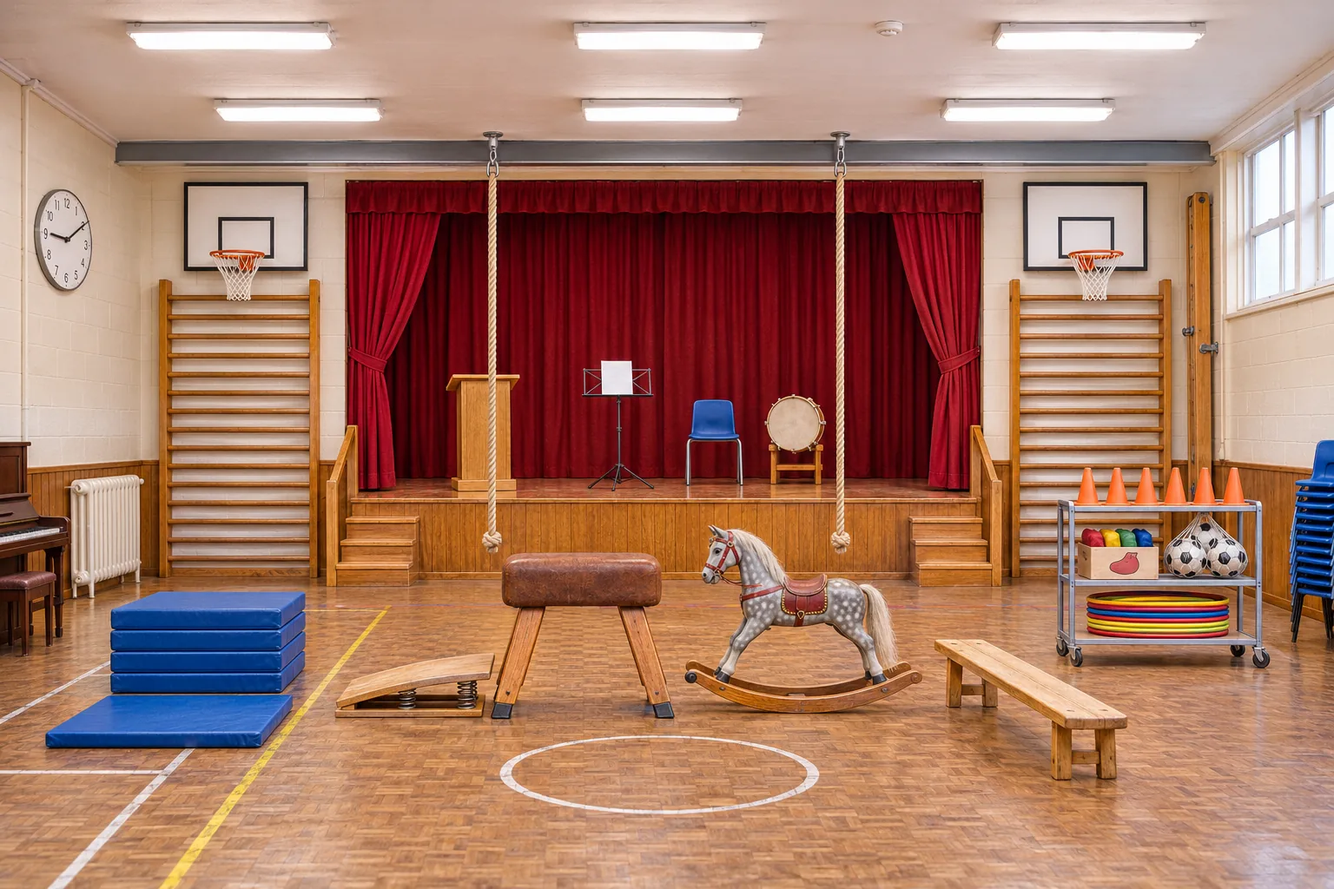
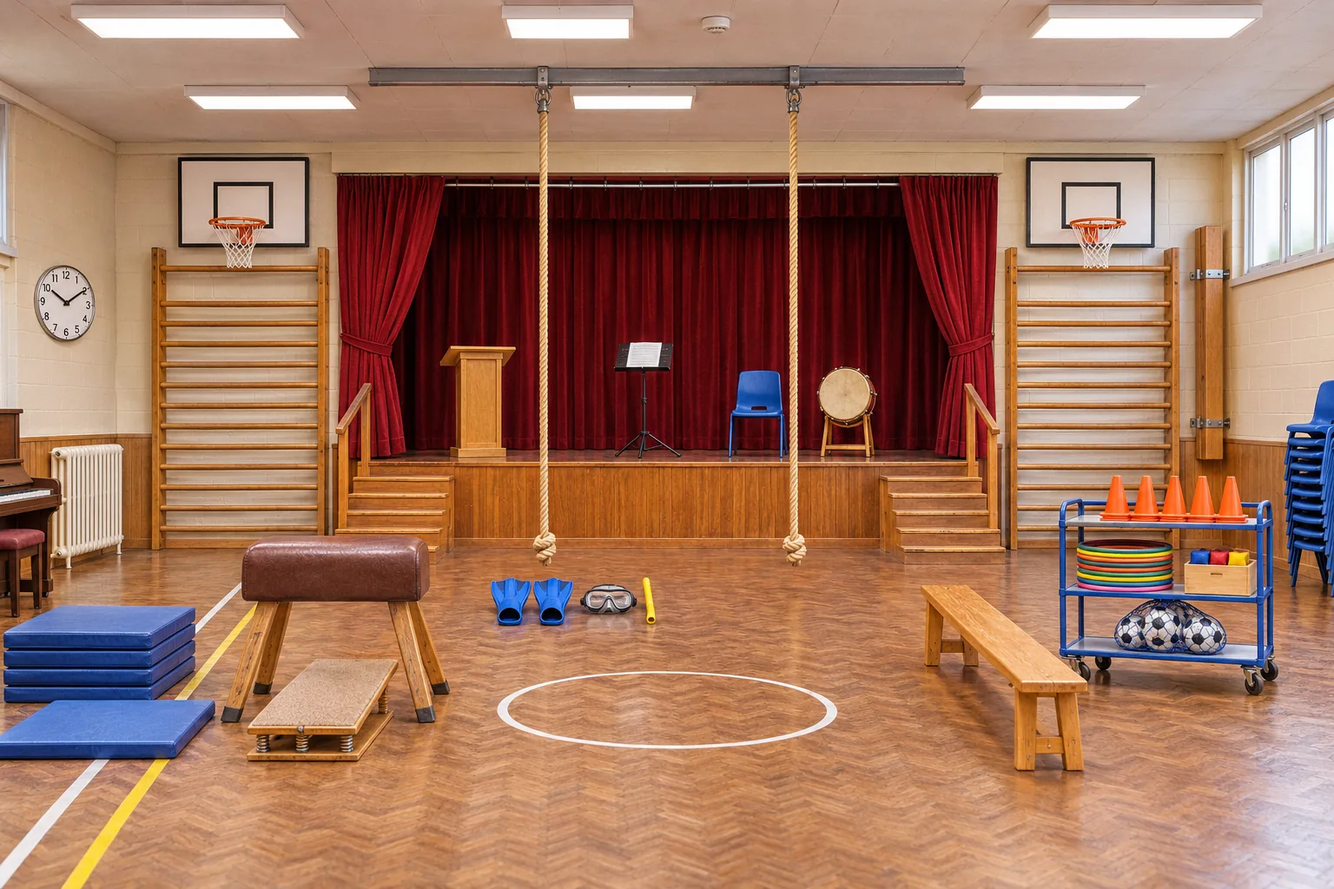
Rework four school views: veggies poster, flippers, shapes chart, closer playground

diff --git a/school.html b/school.html
@@ -457,7 +457,7 @@ body.presenting{overflow:hidden}
 <script src="https://cdn.jsdelivr.net/npm/motion@14.9.0/dist/motion.js" integrity="sha384-mzhnnVPTOvuHjQX0cuFH5wg2l5YcbPcpPqOoHFowMkg6VYQBWwZKGH+EAVZsi6zJ" crossorigin="anonymous"></script>
 <script>
 /* One room or the whole flat: ROOMS is the only difference between them. */
-var ROOMS=[{"title": "The classroom", "alt": "The whiteboard wall of a primary school classroom", "key": "school_vocab_the_classroom_v1", "img": "images/school/the-classroom.webp", "at": [0.149, 0.353], "words": [{"x": 11.7, "y": 36.5, "w": "coat peg"}, {"x": 3.5, "y": 44.0, "w": "coat"}, {"x": 8.6, "y": 44.0, "w": "raincoat"}, {"x": 14.2, "y": 43.5, "w": "book bag"}, {"x": 17.4, "y": 44.5, "w": "PE bag"}, {"x": 4.5, "y": 57.5, "w": "bench"}, {"x": 11.5, "y": 60.5, "w": "wellington boots"}, {"x": 21.3, "y": 50.0, "w": "bookcase"}, {"x": 27.0, "y": 43.0, "w": "books"}, {"x": 30.5, "y": 57.5, "w": "ring binder"}, {"x": 25.5, "y": 59.8, "w": "basket"}, {"x": 22.8, "y": 33.5, "w": "globe"}, {"x": 26.8, "y": 37.5, "w": "tambourine"}, {"x": 32.8, "y": 32.5, "w": "plant"}, {"x": 20.0, "y": 25.3, "w": "number line"}, {"x": 40.8, "y": 19.0, "w": "clock"}, {"x": 47.0, "y": 35.0, "w": "whiteboard"}, {"x": 49.3, "y": 21.0, "w": "projector"}, {"x": 63.0, "y": 35.0, "w": "hundred square"}, {"x": 71.5, "y": 25.3, "w": "painting"}, {"x": 68.8, "y": 33.0, "w": "display board"}, {"x": 89.3, "y": 33.5, "w": "paper towel dispenser"}, {"x": 87.8, "y": 49.5, "w": "sink"}, {"x": 86.8, "y": 44.0, "w": "tap"}, {"x": 79.2, "y": 46.5, "w": "paint pot"}, {"x": 95.0, "y": 47.0, "w": "drying rack"}, {"x": 83.5, "y": 58.5, "w": "bin"}, {"x": 87.8, "y": 60.5, "w": "recycling box"}, {"x": 84.6, "y": 52.8, "w": "cupboard"}, {"x": 60.0, "y": 56.5, "w": "desk"}, {"x": 65.5, "y": 47.0, "w": "swivel chair"}, {"x": 60.0, "y": 51.3, "w": "laptop"}, {"x": 64.0, "y": 52.5, "w": "mug"}, {"x": 23.3, "y": 73.5, "w": "exercise book"}, {"x": 68.8, "y": 50.3, "w": "bell"}, {"x": 83.6, "y": 73.6, "w": "ruler"}, {"x": 76.5, "y": 50.0, "w": "crown"}, {"x": 79.3, "y": 52.5, "w": "sceptre"}, {"x": 56.3, "y": 51.5, "w": "tissues"}, {"x": 37.0, "y": 51.5, "w": "sand timer"}, {"x": 40.0, "y": 50.5, "w": "abacus"}, {"x": 44.5, "y": 51.6, "w": "cube"}, {"x": 46.6, "y": 51.2, "w": "sphere"}, {"x": 48.6, "y": 51.3, "w": "cone"}, {"x": 50.2, "y": 51.3, "w": "cylinder"}, {"x": 43.5, "y": 59.2, "w": "felt tip pens"}, {"x": 48.5, "y": 59.5, "w": "counting cubes"}, {"x": 55.5, "y": 59.8, "w": "number rods"}, {"x": 8.0, "y": 76.5, "w": "table"}, {"x": 15.0, "y": 86.0, "w": "chair"}, {"x": 12.8, "y": 72.3, "w": "pencil case"}, {"x": 27.3, "y": 74.3, "w": "pencil"}, {"x": 31.8, "y": 71.0, "w": "coloured pencils"}, {"x": 31.8, "y": 74.8, "w": "pencil pot"}, {"x": 35.8, "y": 73.5, "w": "glue stick"}, {"x": 39.5, "y": 73.5, "w": "scissors"}, {"x": 61.0, "y": 73.2, "w": "counters"}, {"x": 68.5, "y": 73.5, "w": "reading book"}, {"x": 74.0, "y": 73.5, "w": "lunch box"}, {"x": 79.5, "y": 71.5, "w": "water bottle"}, {"x": 87.0, "y": 74.0, "w": "rubber"}, {"x": 89.4, "y": 74.6, "w": "pencil sharpener"}, {"x": 23.0, "y": 9.3, "w": "strip light"}, {"x": 66.3, "y": 3.5, "w": "smoke alarm"}, {"x": 78.0, "y": 59.5, "w": "socket"}]}, {"title": "The staff room", "alt": "The kitchen wall of a primary school staff room", "key": "school_vocab_the_staff_room_v1", "img": "images/school/the-staff-room.webp", "at": [0.348, 0.353], "words": [{"x": 1.3, "y": 27.5, "w": "coat stand"}, {"x": 2.2, "y": 46.0, "w": "cardigan"}, {"x": 2.3, "y": 63.0, "w": "umbrella"}, {"x": 4.3, "y": 36.0, "w": "light switch"}, {"x": 11.5, "y": 52.0, "w": "photocopier"}, {"x": 21.4, "y": 21.5, "w": "noticeboard"}, {"x": 24.0, "y": 44.3, "w": "pigeonholes"}, {"x": 23.5, "y": 36.5, "w": "letter tray"}, {"x": 29.8, "y": 36.5, "w": "stapler"}, {"x": 33.0, "y": 36.5, "w": "hole punch"}, {"x": 37.0, "y": 34.5, "w": "cactus"}, {"x": 27.4, "y": 41.7, "w": "envelope"}, {"x": 32.8, "y": 42.0, "w": "notebook"}, {"x": 27.0, "y": 45.8, "w": "folder"}, {"x": 27.0, "y": 50.3, "w": "stickers"}, {"x": 30.0, "y": 63.5, "w": "cupboard"}, {"x": 52.5, "y": 25.0, "w": "plates"}, {"x": 51.0, "y": 33.5, "w": "glasses"}, {"x": 73.5, "y": 31.0, "w": "first aid box"}, {"x": 56.5, "y": 41.0, "w": "socket"}, {"x": 45.2, "y": 47.5, "w": "tap"}, {"x": 43.3, "y": 52.0, "w": "sink"}, {"x": 50.5, "y": 52.8, "w": "draining board"}, {"x": 52.8, "y": 47.0, "w": "washing-up brush"}, {"x": 56.5, "y": 48.5, "w": "kettle"}, {"x": 59.5, "y": 49.5, "w": "toaster"}, {"x": 63.5, "y": 47.0, "w": "mug tree"}, {"x": 67.5, "y": 49.5, "w": "coffee"}, {"x": 70.0, "y": 50.0, "w": "teabags"}, {"x": 72.5, "y": 50.8, "w": "sugar bowl"}, {"x": 74.8, "y": 50.8, "w": "milk jug"}, {"x": 78.5, "y": 51.0, "w": "biscuit tin"}, {"x": 85.0, "y": 47.0, "w": "fridge"}, {"x": 85.2, "y": 57.0, "w": "tea towel"}, {"x": 89.0, "y": 29.0, "w": "kitchen roll"}, {"x": 94.5, "y": 45.0, "w": "staff"}, {"x": 97.5, "y": 60.0, "w": "radiator"}, {"x": 26.0, "y": 82.0, "w": "armchair"}, {"x": 55.0, "y": 89.0, "w": "coffee table"}, {"x": 40.5, "y": 82.5, "w": "exercise books"}, {"x": 40.3, "y": 75.5, "w": "red pen"}, {"x": 60.5, "y": 81.0, "w": "laptop"}, {"x": 47.5, "y": 80.5, "w": "mug"}, {"x": 52.3, "y": 82.3, "w": "biscuits"}, {"x": 68.0, "y": 78.5, "w": "tissues"}, {"x": 14.5, "y": 84.0, "w": "bin"}, {"x": 6.5, "y": 88.0, "w": "recycling box"}, {"x": 23.0, "y": 4.0, "w": "ceiling light"}, {"x": 50.0, "y": 3.5, "w": "smoke alarm"}]}, {"title": "The canteen", "alt": "The serving counter of a primary school canteen", "key": "school_vocab_the_canteen_v1", "img": "images/school/the-canteen.webp", "at": [0.555, 0.353], "words": [{"x": 2.5, "y": 25.0, "w": "window"}, {"x": 4.0, "y": 45.0, "w": "radiator"}, {"x": 8.3, "y": 33.0, "w": "hand sanitiser"}, {"x": 13.8, "y": 25.0, "w": "serving hatch"}, {"x": 19.0, "y": 26.0, "w": "pans"}, {"x": 50.0, "y": 13.0, "w": "menu board"}, {"x": 62.3, "y": 31.0, "w": "milk"}, {"x": 15.5, "y": 46.0, "w": "cutlery"}, {"x": 21.0, "y": 46.0, "w": "yoghurt"}, {"x": 23.5, "y": 46.5, "w": "fruit salad"}, {"x": 26.0, "y": 46.5, "w": "jelly"}, {"x": 29.5, "y": 46.5, "w": "rice pudding"}, {"x": 33.0, "y": 46.0, "w": "fish fingers"}, {"x": 35.5, "y": 46.5, "w": "roast potatoes"}, {"x": 38.5, "y": 46.0, "w": "peas"}, {"x": 37.5, "y": 48.5, "w": "serving spoon"}, {"x": 43.0, "y": 47.3, "w": "rowing boat"}, {"x": 52.0, "y": 46.5, "w": "carrots"}, {"x": 55.0, "y": 46.5, "w": "pasta"}, {"x": 58.6, "y": 41.5, "w": "urn"}, {"x": 62.5, "y": 46.5, "w": "bread rolls"}, {"x": 66.5, "y": 46.0, "w": "loaf"}, {"x": 67.5, "y": 48.5, "w": "bread knife"}, {"x": 70.0, "y": 47.0, "w": "grated cheese"}, {"x": 73.5, "y": 45.5, "w": "apples"}, {"x": 76.5, "y": 45.5, "w": "oranges"}, {"x": 79.5, "y": 46.0, "w": "plates"}, {"x": 81.7, "y": 46.5, "w": "bowls"}, {"x": 85.5, "y": 43.0, "w": "till"}, {"x": 89.0, "y": 45.5, "w": "card reader"}, {"x": 93.5, "y": 43.0, "w": "water cooler"}, {"x": 72.0, "y": 57.0, "w": "bin"}, {"x": 83.0, "y": 57.0, "w": "recycling bin"}, {"x": 65.0, "y": 55.0, "w": "socket"}, {"x": 40.0, "y": 55.0, "w": "counter"}, {"x": 31.0, "y": 79.0, "w": "table"}, {"x": 20.0, "y": 90.0, "w": "bench"}, {"x": 3.6, "y": 77.5, "w": "tray"}, {"x": 18.3, "y": 68.0, "w": "jug"}, {"x": 25.0, "y": 73.5, "w": "beaker"}, {"x": 12.9, "y": 74.6, "w": "fork"}, {"x": 9.6, "y": 74.5, "w": "bowl"}, {"x": 14.3, "y": 74.6, "w": "spoon"}, {"x": 73.5, "y": 76.5, "w": "lunch box"}, {"x": 72.5, "y": 74.5, "w": "sandwich"}, {"x": 78.5, "y": 74.5, "w": "juice"}, {"x": 89.0, "y": 77.0, "w": "banana"}, {"x": 93.5, "y": 72.0, "w": "flask"}, {"x": 85.0, "y": 25.0, "w": "door"}, {"x": 11.0, "y": 4.0, "w": "ceiling light"}, {"x": 50.0, "y": 3.0, "w": "smoke alarm"}]}, {"title": "The hall", "alt": "The stage end of a primary school hall, with wall bars and climbing ropes", "key": "school_vocab_the_hall_v1", "img": "images/school/the-hall.webp", "at": [0.822, 0.353], "words": [{"x": 4.5, "y": 26.0, "w": "clock"}, {"x": 1.5, "y": 61.0, "w": "piano"}, {"x": 2.5, "y": 70.0, "w": "stool"}, {"x": 7.5, "y": 60.0, "w": "radiator"}, {"x": 17.0, "y": 42.0, "w": "wall bars"}, {"x": 18.0, "y": 29.0, "w": "basketball hoop"}, {"x": 20.5, "y": 23.5, "w": "backboard"}, {"x": 29.0, "y": 30.0, "w": "curtain"}, {"x": 50.0, "y": 57.5, "w": "stage"}, {"x": 28.0, "y": 61.5, "w": "steps"}, {"x": 26.2, "y": 54.5, "w": "handrail"}, {"x": 36.0, "y": 47.0, "w": "lectern"}, {"x": 46.3, "y": 44.0, "w": "music stand"}, {"x": 53.5, "y": 48.5, "w": "chair"}, {"x": 59.5, "y": 48.0, "w": "drum"}, {"x": 36.5, "y": 40.0, "w": "climbing rope"}, {"x": 43.0, "y": 65.0, "w": "vaulting horse"}, {"x": 31.0, "y": 77.5, "w": "springboard"}, {"x": 12.0, "y": 82.5, "w": "gym mat"}, {"x": 58.0, "y": 68.0, "w": "rocking horse"}, {"x": 77.0, "y": 76.0, "w": "bench"}, {"x": 93.5, "y": 68.0, "w": "trolley"}, {"x": 85.0, "y": 55.5, "w": "cones"}, {"x": 83.0, "y": 61.0, "w": "beanbags"}, {"x": 90.0, "y": 62.0, "w": "footballs"}, {"x": 88.0, "y": 70.0, "w": "hoops"}, {"x": 96.0, "y": 20.0, "w": "window"}, {"x": 25.0, "y": 4.0, "w": "ceiling light"}, {"x": 66.5, "y": 3.0, "w": "smoke alarm"}]}, {"title": "The playground", "alt": "The tarmac playground of a primary school, looking at the railings", "key": "school_vocab_the_playground_v1", "img": "images/school/the-playground.webp", "at": [0.5, 0.773], "words": [{"x": 1.5, "y": 24.0, "w": "brick wall"}, {"x": 2.0, "y": 32.5, "w": "drinking fountain"}, {"x": 6.5, "y": 30.0, "w": "climbing frame"}, {"x": 7.3, "y": 36.0, "w": "ladder"}, {"x": 14.5, "y": 36.5, "w": "slide"}, {"x": 15.5, "y": 23.5, "w": "monkey bars"}, {"x": 15.5, "y": 29.5, "w": "bananas"}, {"x": 25.5, "y": 36.5, "w": "bench"}, {"x": 29.5, "y": 36.0, "w": "litter bin"}, {"x": 32.0, "y": 36.0, "w": "recycling bin"}, {"x": 57.0, "y": 33.0, "w": "railings"}, {"x": 60.0, "y": 22.0, "w": "hedge"}, {"x": 41.5, "y": 29.5, "w": "footballs"}, {"x": 46.0, "y": 30.0, "w": "skipping ropes"}, {"x": 41.5, "y": 35.0, "w": "hoops"}, {"x": 46.5, "y": 38.0, "w": "tennis balls"}, {"x": 48.6, "y": 33.5, "w": "trolley"}, {"x": 50.0, "y": 15.0, "w": "basketball hoop"}, {"x": 50.0, "y": 10.5, "w": "backboard"}, {"x": 50.2, "y": 25.0, "w": "post"}, {"x": 56.0, "y": 38.0, "w": "sandpit"}, {"x": 60.5, "y": 36.0, "w": "broom"}, {"x": 68.5, "y": 33.0, "w": "goal"}, {"x": 77.0, "y": 36.5, "w": "bike rack"}, {"x": 82.5, "y": 36.0, "w": "bicycle"}, {"x": 90.0, "y": 35.5, "w": "scooter"}, {"x": 96.5, "y": 38.0, "w": "planter"}, {"x": 96.5, "y": 30.0, "w": "sunflowers"}, {"x": 19.1, "y": 71.2, "w": "hopscotch"}, {"x": 82.0, "y": 67.5, "w": "number snake"}]}];
+var ROOMS=[{"title": "The classroom", "alt": "The whiteboard wall of a primary school classroom", "key": "school_vocab_the_classroom_v1", "img": "images/school/the-classroom.webp", "at": [0.149, 0.353], "words": [{"x": 11.0, "y": 32.3, "w": "coat peg"}, {"x": 3.6, "y": 40.0, "w": "coat"}, {"x": 8.5, "y": 40.0, "w": "raincoat"}, {"x": 14.3, "y": 40.0, "w": "book bag"}, {"x": 17.6, "y": 41.0, "w": "PE bag"}, {"x": 4.0, "y": 52.5, "w": "bench"}, {"x": 11.8, "y": 57.5, "w": "wellington boots"}, {"x": 20.6, "y": 47.0, "w": "bookcase"}, {"x": 26.5, "y": 39.0, "w": "books"}, {"x": 29.5, "y": 54.0, "w": "ring binder"}, {"x": 23.5, "y": 56.0, "w": "basket"}, {"x": 22.3, "y": 29.5, "w": "globe"}, {"x": 25.5, "y": 33.5, "w": "tambourine"}, {"x": 31.0, "y": 29.5, "w": "plant"}, {"x": 26.0, "y": 23.0, "w": "number line"}, {"x": 45.0, "y": 14.5, "w": "clock"}, {"x": 45.0, "y": 22.5, "w": "projector"}, {"x": 45.5, "y": 33.0, "w": "whiteboard"}, {"x": 57.8, "y": 30.3, "w": "circle"}, {"x": 60.3, "y": 30.0, "w": "square"}, {"x": 63.0, "y": 30.3, "w": "triangle"}, {"x": 58.0, "y": 35.0, "w": "rectangle"}, {"x": 60.5, "y": 35.0, "w": "star"}, {"x": 63.3, "y": 35.5, "w": "hexagon"}, {"x": 69.0, "y": 22.0, "w": "painting"}, {"x": 67.4, "y": 30.0, "w": "display board"}, {"x": 89.3, "y": 29.5, "w": "paper towel dispenser"}, {"x": 94.5, "y": 37.0, "w": "tap"}, {"x": 96.5, "y": 41.5, "w": "sink"}, {"x": 89.5, "y": 45.5, "w": "cupboard"}, {"x": 86.5, "y": 38.5, "w": "paint pot"}, {"x": 92.0, "y": 41.0, "w": "jam jar"}, {"x": 94.5, "y": 53.0, "w": "drying rack"}, {"x": 82.0, "y": 54.5, "w": "bin"}, {"x": 86.5, "y": 56.5, "w": "recycling box"}, {"x": 72.0, "y": 53.0, "w": "desk"}, {"x": 66.5, "y": 44.0, "w": "swivel chair"}, {"x": 59.5, "y": 46.5, "w": "laptop"}, {"x": 62.3, "y": 48.2, "w": "mug"}, {"x": 69.3, "y": 47.5, "w": "bell"}, {"x": 72.8, "y": 46.5, "w": "crown"}, {"x": 76.5, "y": 48.5, "w": "sceptre"}, {"x": 53.5, "y": 48.0, "w": "tissues"}, {"x": 36.0, "y": 48.0, "w": "sand timer"}, {"x": 39.5, "y": 47.5, "w": "abacus"}, {"x": 43.5, "y": 48.3, "w": "sphere"}, {"x": 46.4, "y": 48.0, "w": "cone"}, {"x": 42.5, "y": 55.5, "w": "felt tip pens"}, {"x": 47.5, "y": 55.5, "w": "counting cubes"}, {"x": 53.5, "y": 56.0, "w": "number rods"}, {"x": 8.0, "y": 72.0, "w": "table"}, {"x": 14.0, "y": 82.0, "w": "chair"}, {"x": 9.5, "y": 69.5, "w": "pencil case"}, {"x": 24.0, "y": 69.5, "w": "exercise book"}, {"x": 26.0, "y": 70.5, "w": "pencil"}, {"x": 29.5, "y": 66.5, "w": "coloured pencils"}, {"x": 29.5, "y": 70.0, "w": "pencil pot"}, {"x": 33.5, "y": 69.5, "w": "glue stick"}, {"x": 37.0, "y": 70.0, "w": "scissors"}, {"x": 62.0, "y": 69.5, "w": "counters"}, {"x": 68.5, "y": 70.5, "w": "reading book"}, {"x": 75.0, "y": 70.0, "w": "lunch box"}, {"x": 81.0, "y": 67.5, "w": "water bottle"}, {"x": 84.0, "y": 70.5, "w": "ruler"}, {"x": 89.5, "y": 70.0, "w": "rubber"}, {"x": 92.5, "y": 70.5, "w": "pencil sharpener"}, {"x": 20.0, "y": 4.5, "w": "strip light"}, {"x": 49.0, "y": 1.5, "w": "smoke alarm"}]}, {"title": "The staff room", "alt": "The kitchen wall of a primary school staff room", "key": "school_vocab_the_staff_room_v1", "img": "images/school/the-staff-room.webp", "at": [0.348, 0.353], "words": [{"x": 1.3, "y": 27.5, "w": "coat stand"}, {"x": 2.2, "y": 46.0, "w": "cardigan"}, {"x": 2.3, "y": 63.0, "w": "umbrella"}, {"x": 4.3, "y": 36.0, "w": "light switch"}, {"x": 11.5, "y": 52.0, "w": "photocopier"}, {"x": 21.4, "y": 21.5, "w": "noticeboard"}, {"x": 24.0, "y": 44.3, "w": "pigeonholes"}, {"x": 23.5, "y": 36.5, "w": "letter tray"}, {"x": 29.8, "y": 36.5, "w": "stapler"}, {"x": 33.0, "y": 36.5, "w": "hole punch"}, {"x": 37.0, "y": 34.5, "w": "cactus"}, {"x": 27.4, "y": 41.7, "w": "envelope"}, {"x": 32.8, "y": 42.0, "w": "notebook"}, {"x": 27.0, "y": 45.8, "w": "folder"}, {"x": 27.0, "y": 50.3, "w": "stickers"}, {"x": 30.0, "y": 63.5, "w": "cupboard"}, {"x": 52.5, "y": 25.0, "w": "plates"}, {"x": 51.0, "y": 33.5, "w": "glasses"}, {"x": 73.5, "y": 31.0, "w": "first aid box"}, {"x": 56.5, "y": 41.0, "w": "socket"}, {"x": 45.2, "y": 47.5, "w": "tap"}, {"x": 43.3, "y": 52.0, "w": "sink"}, {"x": 50.5, "y": 52.8, "w": "draining board"}, {"x": 52.8, "y": 47.0, "w": "washing-up brush"}, {"x": 56.5, "y": 48.5, "w": "kettle"}, {"x": 59.5, "y": 49.5, "w": "toaster"}, {"x": 63.5, "y": 47.0, "w": "mug tree"}, {"x": 67.5, "y": 49.5, "w": "coffee"}, {"x": 70.0, "y": 50.0, "w": "teabags"}, {"x": 72.5, "y": 50.8, "w": "sugar bowl"}, {"x": 74.8, "y": 50.8, "w": "milk jug"}, {"x": 78.5, "y": 51.0, "w": "biscuit tin"}, {"x": 85.0, "y": 47.0, "w": "fridge"}, {"x": 85.2, "y": 57.0, "w": "tea towel"}, {"x": 89.0, "y": 29.0, "w": "kitchen roll"}, {"x": 94.5, "y": 45.0, "w": "staff"}, {"x": 97.5, "y": 60.0, "w": "radiator"}, {"x": 26.0, "y": 82.0, "w": "armchair"}, {"x": 55.0, "y": 89.0, "w": "coffee table"}, {"x": 40.5, "y": 82.5, "w": "exercise books"}, {"x": 40.3, "y": 75.5, "w": "red pen"}, {"x": 60.5, "y": 81.0, "w": "laptop"}, {"x": 47.5, "y": 80.5, "w": "mug"}, {"x": 52.3, "y": 82.3, "w": "biscuits"}, {"x": 68.0, "y": 78.5, "w": "tissues"}, {"x": 14.5, "y": 84.0, "w": "bin"}, {"x": 6.5, "y": 88.0, "w": "recycling box"}, {"x": 23.0, "y": 4.0, "w": "ceiling light"}, {"x": 50.0, "y": 3.5, "w": "smoke alarm"}]}, {"title": "The canteen", "alt": "The serving counter of a primary school canteen", "key": "school_vocab_the_canteen_v1", "img": "images/school/the-canteen.webp", "at": [0.555, 0.353], "words": [{"x": 2.5, "y": 25.0, "w": "window"}, {"x": 5.0, "y": 57.0, "w": "radiator"}, {"x": 10.0, "y": 43.0, "w": "hand sanitiser"}, {"x": 13.5, "y": 30.0, "w": "serving hatch"}, {"x": 19.0, "y": 42.5, "w": "pans"}, {"x": 21.5, "y": 17.5, "w": "poster"}, {"x": 24.0, "y": 30.3, "w": "broccoli"}, {"x": 30.0, "y": 30.3, "w": "tomato"}, {"x": 33.2, "y": 30.3, "w": "pepper"}, {"x": 61.0, "y": 31.5, "w": "menu board"}, {"x": 64.0, "y": 37.5, "w": "milk"}, {"x": 17.5, "y": 52.0, "w": "cutlery"}, {"x": 23.0, "y": 54.0, "w": "yoghurt"}, {"x": 26.5, "y": 54.0, "w": "fruit salad"}, {"x": 29.0, "y": 54.0, "w": "jelly"}, {"x": 31.0, "y": 54.5, "w": "rice pudding"}, {"x": 37.0, "y": 53.5, "w": "fish fingers"}, {"x": 40.5, "y": 53.5, "w": "roast potatoes"}, {"x": 43.5, "y": 53.5, "w": "peas"}, {"x": 47.5, "y": 53.5, "w": "carrots"}, {"x": 51.5, "y": 53.5, "w": "pasta"}, {"x": 39.0, "y": 56.0, "w": "serving spoon"}, {"x": 55.5, "y": 54.0, "w": "gravy"}, {"x": 60.0, "y": 49.0, "w": "urn"}, {"x": 65.5, "y": 53.0, "w": "bread rolls"}, {"x": 63.8, "y": 55.3, "w": "grated cheese"}, {"x": 68.0, "y": 55.5, "w": "loaf"}, {"x": 70.5, "y": 57.0, "w": "bread knife"}, {"x": 73.0, "y": 50.5, "w": "apples"}, {"x": 76.5, "y": 50.0, "w": "oranges"}, {"x": 79.5, "y": 53.5, "w": "plates"}, {"x": 81.0, "y": 51.5, "w": "bowls"}, {"x": 86.0, "y": 50.0, "w": "till"}, {"x": 89.0, "y": 52.0, "w": "card reader"}, {"x": 92.5, "y": 48.0, "w": "water cooler"}, {"x": 73.5, "y": 64.0, "w": "bin"}, {"x": 85.0, "y": 63.0, "w": "recycling bin"}, {"x": 45.0, "y": 63.0, "w": "counter"}, {"x": 33.0, "y": 80.0, "w": "table"}, {"x": 20.0, "y": 92.0, "w": "bench"}, {"x": 8.0, "y": 82.5, "w": "tray"}, {"x": 10.5, "y": 79.5, "w": "bowl"}, {"x": 14.5, "y": 81.0, "w": "fork"}, {"x": 16.0, "y": 81.0, "w": "spoon"}, {"x": 20.5, "y": 76.0, "w": "jug"}, {"x": 27.5, "y": 79.0, "w": "beaker"}, {"x": 74.5, "y": 81.0, "w": "lunch box"}, {"x": 73.5, "y": 79.0, "w": "sandwich"}, {"x": 78.0, "y": 78.5, "w": "juice"}, {"x": 85.0, "y": 82.5, "w": "banana"}, {"x": 90.0, "y": 78.0, "w": "flask"}, {"x": 10.0, "y": 4.0, "w": "ceiling light"}, {"x": 51.5, "y": 4.0, "w": "smoke alarm"}]}, {"title": "The hall", "alt": "The stage end of a primary school hall, with wall bars and climbing ropes", "key": "school_vocab_the_hall_v1", "img": "images/school/the-hall.webp", "at": [0.822, 0.353], "words": [{"x": 4.5, "y": 33.0, "w": "clock"}, {"x": 1.5, "y": 55.0, "w": "piano"}, {"x": 2.0, "y": 64.0, "w": "stool"}, {"x": 6.0, "y": 56.0, "w": "radiator"}, {"x": 15.5, "y": 42.0, "w": "wall bars"}, {"x": 18.0, "y": 25.0, "w": "basketball hoop"}, {"x": 19.5, "y": 20.0, "w": "backboard"}, {"x": 28.5, "y": 30.0, "w": "curtain"}, {"x": 50.0, "y": 55.0, "w": "stage"}, {"x": 30.0, "y": 57.0, "w": "steps"}, {"x": 27.0, "y": 48.0, "w": "handrail"}, {"x": 36.0, "y": 44.0, "w": "lectern"}, {"x": 49.0, "y": 42.0, "w": "music stand"}, {"x": 57.5, "y": 45.5, "w": "chair"}, {"x": 63.5, "y": 45.0, "w": "drum"}, {"x": 41.0, "y": 35.0, "w": "climbing rope"}, {"x": 25.0, "y": 63.0, "w": "vaulting horse"}, {"x": 24.0, "y": 79.0, "w": "springboard"}, {"x": 8.0, "y": 79.0, "w": "gym mat"}, {"x": 39.5, "y": 68.0, "w": "flippers"}, {"x": 46.0, "y": 68.0, "w": "diving mask"}, {"x": 49.5, "y": 68.0, "w": "snorkel"}, {"x": 76.0, "y": 72.0, "w": "bench"}, {"x": 81.5, "y": 69.0, "w": "trolley"}, {"x": 87.0, "y": 57.0, "w": "cones"}, {"x": 84.5, "y": 64.0, "w": "hoops"}, {"x": 91.0, "y": 64.0, "w": "beanbags"}, {"x": 88.5, "y": 72.5, "w": "footballs"}, {"x": 96.0, "y": 18.0, "w": "window"}, {"x": 22.0, "y": 4.0, "w": "ceiling light"}, {"x": 54.0, "y": 3.0, "w": "smoke alarm"}]}, {"title": "The playground", "alt": "The tarmac playground of a primary school, looking at the railings", "key": "school_vocab_the_playground_v1", "img": "images/school/the-playground.webp", "at": [0.5, 0.773], "words": [{"x": 1.5, "y": 26.0, "w": "brick wall"}, {"x": 1.8, "y": 34.5, "w": "drinking fountain"}, {"x": 6.5, "y": 28.0, "w": "climbing frame"}, {"x": 6.5, "y": 37.0, "w": "ladder"}, {"x": 15.0, "y": 39.0, "w": "slide"}, {"x": 13.0, "y": 23.0, "w": "monkey bars"}, {"x": 14.5, "y": 28.0, "w": "bananas"}, {"x": 25.0, "y": 38.5, "w": "bench"}, {"x": 29.8, "y": 39.0, "w": "litter bin"}, {"x": 32.0, "y": 39.0, "w": "recycling bin"}, {"x": 35.5, "y": 33.5, "w": "railings"}, {"x": 60.0, "y": 25.0, "w": "hedge"}, {"x": 42.0, "y": 33.0, "w": "footballs"}, {"x": 46.5, "y": 33.0, "w": "skipping ropes"}, {"x": 42.0, "y": 39.0, "w": "hoops"}, {"x": 46.5, "y": 40.0, "w": "tennis balls"}, {"x": 40.0, "y": 42.5, "w": "trolley"}, {"x": 50.5, "y": 12.0, "w": "basketball hoop"}, {"x": 50.0, "y": 7.0, "w": "backboard"}, {"x": 50.5, "y": 25.0, "w": "post"}, {"x": 57.0, "y": 41.0, "w": "sandpit"}, {"x": 60.0, "y": 35.0, "w": "broom"}, {"x": 68.0, "y": 38.0, "w": "goal"}, {"x": 74.5, "y": 39.5, "w": "bike rack"}, {"x": 83.0, "y": 38.0, "w": "bicycle"}, {"x": 92.0, "y": 36.0, "w": "scooter"}, {"x": 97.0, "y": 41.0, "w": "planter"}, {"x": 96.5, "y": 33.0, "w": "sunflowers"}, {"x": 17.5, "y": 70.5, "w": "hopscotch"}, {"x": 89.5, "y": 52.5, "w": "number snake"}]}];
 var ri=0, KEY='';
 /* How every word is said. Kept by the word rather than by the room, because a
    cushion is a cushion in all seven, and kept apart from the hotspots so a list
@@ -465,7 +465,7 @@ var ri=0, KEY='';
    [British, every r sounded], and where the two are the same only one is kept.
    It sits below ROOMS, never between ROOMS and the line after it: that pair of
    lines is the anchor the builders use to read the words back out of a page. */
-var IPA={"PE bag": ["ˌpiːˈiː bæɡ"], "abacus": ["ˈæbəkəs"], "apples": ["ˈæplz"], "armchair": ["ˈɑːmtʃeə"], "backboard": ["ˈbækbɔːd"], "banana": ["bəˈnɑːnə"], "bananas": ["bəˈnɑːnəz"], "basket": ["ˈbɑːskɪt"], "basketball hoop": ["ˈbɑːskɪtbɔːl huːp"], "beaker": ["ˈbiːkə"], "beanbags": ["ˈbiːnbæɡz"], "bell": ["bel"], "bench": ["bentʃ"], "bicycle": ["ˈbaɪsɪkl"], "bike rack": ["ˈbaɪk ræk"], "bin": ["bɪn"], "biscuit tin": ["ˈbɪskɪt tɪn"], "biscuits": ["ˈbɪskɪts"], "book bag": ["ˈbʊk bæɡ"], "bookcase": ["ˈbʊkkeɪs"], "books": ["bʊks"], "bowl": ["bəʊl"], "bowls": ["bəʊlz"], "bread knife": ["ˈbred naɪf"], "bread rolls": ["ˈbred rəʊlz"], "brick wall": ["ˌbrɪk ˈwɔːl"], "broom": ["bruːm"], "cactus": ["ˈkæktəs"], "card reader": ["ˈkɑːd riːdə"], "cardigan": ["ˈkɑːdɪɡən"], "carrots": ["ˈkærəts"], "ceiling light": ["ˈsiːlɪŋ laɪt"], "chair": ["tʃeə"], "climbing frame": ["ˈklaɪmɪŋ freɪm"], "climbing rope": ["ˈklaɪmɪŋ rəʊp"], "clock": ["klɒk"], "coat": ["kəʊt"], "coat peg": ["kəʊt peɡ"], "coat stand": ["ˈkəʊt stænd"], "coffee": ["ˈkɒfi"], "coffee table": ["ˈkɒfi teɪbl"], "coloured pencils": ["ˈkʌləd penslz"], "cone": ["kəʊn"], "cones": ["kəʊnz"], "counter": ["ˈkaʊntə"], "counters": ["ˈkaʊntəz"], "counting cubes": ["ˈkaʊntɪŋ kjuːbz"], "crown": ["kraʊn"], "cube": ["kjuːb"], "cupboard": ["ˈkʌbəd"], "curtain": ["ˈkɜːtn"], "cutlery": ["ˈkʌtləri"], "cylinder": ["ˈsɪlɪndə"], "desk": ["desk"], "display board": ["dɪˈspleɪ bɔːd"], "door": ["dɔː"], "draining board": ["ˈdreɪnɪŋ bɔːd"], "drinking fountain": ["ˈdrɪŋkɪŋ faʊntɪn"], "drum": ["drʌm"], "drying rack": ["ˈdraɪɪŋ ræk"], "envelope": ["ˈenvələʊp"], "exercise book": ["ˈeksəsaɪz bʊk"], "exercise books": ["ˈeksəsaɪz bʊks"], "felt tip pens": ["ˌfelt ˈtɪp penz"], "first aid box": ["ˌfɜːst ˈeɪd bɒks"], "fish fingers": ["ˈfɪʃ fɪŋɡəz"], "flask": ["flɑːsk"], "folder": ["ˈfəʊldə"], "footballs": ["ˈfʊtbɔːlz"], "fork": ["fɔːk"], "fridge": ["frɪdʒ"], "fruit salad": ["ˌfruːt ˈsæləd"], "glasses": ["ˈɡlɑːsɪz"], "globe": ["ɡləʊb"], "glue stick": ["ˈɡluː stɪk"], "goal": ["ɡəʊl"], "grated cheese": ["ˌɡreɪtɪd ˈtʃiːz"], "gym mat": ["ˈdʒɪm mæt"], "hand sanitiser": ["ˈhænd sænɪtaɪzə"], "handrail": ["ˈhændreɪl"], "hedge": ["hedʒ"], "hole punch": ["ˈhəʊl pʌntʃ"], "hoops": ["huːps"], "hopscotch": ["ˈhɒpskɒtʃ"], "hundred square": ["ˈhʌndrəd skweə"], "jelly": ["ˈdʒeli"], "jug": ["dʒʌɡ"], "juice": ["dʒuːs"], "kettle": ["ˈketl"], "kitchen roll": ["ˈkɪtʃɪn rəʊl"], "ladder": ["ˈlædə"], "laptop": ["ˈlæptɒp"], "lectern": ["ˈlektən"], "letter tray": ["ˈletə treɪ"], "light switch": ["ˈlaɪt swɪtʃ"], "litter bin": ["ˈlɪtə bɪn"], "loaf": ["ləʊf"], "lunch box": ["ˈlʌntʃ bɒks"], "menu board": ["ˈmenjuː bɔːd"], "milk": ["mɪlk"], "milk jug": ["ˈmɪlk dʒʌɡ"], "monkey bars": ["ˈmʌŋki bɑːz"], "mug": ["mʌɡ"], "mug tree": ["ˈmʌɡ triː"], "music stand": ["ˈmjuːzɪk stænd"], "notebook": ["ˈnəʊtbʊk"], "noticeboard": ["ˈnəʊtɪsbɔːd"], "number line": ["ˈnʌmbə laɪn"], "number rods": ["ˈnʌmbə rɒdz"], "number snake": ["ˈnʌmbə sneɪk"], "oranges": ["ˈɒrɪndʒɪz"], "paint pot": ["ˈpeɪnt pɒt"], "painting": ["ˈpeɪntɪŋ"], "pans": ["pænz"], "paper towel dispenser": ["ˈpeɪpə taʊəl dɪˈspensə"], "pasta": ["ˈpæstə"], "peas": ["piːz"], "pencil": ["ˈpensl"], "pencil case": ["ˈpensl keɪs"], "pencil pot": ["ˈpensl pɒt"], "pencil sharpener": ["ˈpensl ʃɑːpnə"], "photocopier": ["ˈfəʊtəʊkɒpiə"], "piano": ["piˈænəʊ"], "pigeonholes": ["ˈpɪdʒɪnhəʊlz"], "plant": ["plɑːnt"], "planter": ["ˈplɑːntə"], "plates": ["pleɪts"], "post": ["pəʊst"], "projector": ["prəˈdʒektə"], "radiator": ["ˈreɪdieɪtə"], "railings": ["ˈreɪlɪŋz"], "raincoat": ["ˈreɪnkəʊt"], "reading book": ["ˈriːdɪŋ bʊk"], "recycling bin": ["riːˈsaɪklɪŋ bɪn"], "recycling box": ["riːˈsaɪklɪŋ bɒks"], "red pen": ["ˌred ˈpen"], "rice pudding": ["ˌraɪs ˈpʊdɪŋ"], "ring binder": ["ˈrɪŋ baɪndə"], "roast potatoes": ["ˌrəʊst pəˈteɪtəʊz"], "rocking horse": ["ˈrɒkɪŋ hɔːs"], "rowing boat": ["ˈrəʊɪŋ bəʊt"], "rubber": ["ˈrʌbə"], "ruler": ["ˈruːlə"], "sand timer": ["ˈsænd taɪmə"], "sandpit": ["ˈsændpɪt"], "sandwich": ["ˈsænwɪdʒ"], "sceptre": ["ˈseptə"], "scissors": ["ˈsɪzəz"], "scooter": ["ˈskuːtə"], "serving hatch": ["ˈsɜːvɪŋ hætʃ"], "serving spoon": ["ˈsɜːvɪŋ spuːn"], "sink": ["sɪŋk"], "skipping ropes": ["ˈskɪpɪŋ rəʊps"], "slide": ["slaɪd"], "smoke alarm": ["ˈsməʊk əlɑːm"], "socket": ["ˈsɒkɪt"], "sphere": ["sfɪə"], "spoon": ["spuːn"], "springboard": ["ˈsprɪŋbɔːd"], "staff": ["stɑːf"], "stage": ["steɪdʒ"], "stapler": ["ˈsteɪplə"], "steps": ["steps"], "stickers": ["ˈstɪkəz"], "stool": ["stuːl"], "strip light": ["ˈstrɪp laɪt"], "sugar bowl": ["ˈʃʊɡə bəʊl"], "sunflowers": ["ˈsʌnflaʊəz"], "swivel chair": ["ˈswɪvl tʃeə"], "table": ["ˈteɪbl"], "tambourine": ["ˌtæmbəˈriːn"], "tap": ["tæp"], "tea towel": ["ˈtiː taʊəl"], "teabags": ["ˈtiːbæɡz"], "tennis balls": ["ˈtenɪs bɔːlz"], "till": ["tɪl"], "tissues": ["ˈtɪʃuːz"], "toaster": ["ˈtəʊstə"], "tray": ["treɪ"], "trolley": ["ˈtrɒli"], "umbrella": ["ʌmˈbrelə"], "urn": ["ɜːn"], "vaulting horse": ["ˈvɔːltɪŋ hɔːs"], "wall bars": ["ˈwɔːl bɑːz"], "washing-up brush": ["ˌwɒʃɪŋ ˈʌp brʌʃ"], "water bottle": ["ˈwɔːtə bɒtl"], "water cooler": ["ˈwɔːtə kuːlə"], "wellington boots": ["ˈwelɪŋtən buːts"], "whiteboard": ["ˈwaɪtbɔːd"], "window": ["ˈwɪndəʊ"], "yoghurt": ["ˈjɒɡət"]};
+var IPA={"PE bag": ["ˌpiːˈiː bæɡ"], "abacus": ["ˈæbəkəs"], "apples": ["ˈæplz"], "armchair": ["ˈɑːmtʃeə"], "backboard": ["ˈbækbɔːd"], "banana": ["bəˈnɑːnə"], "bananas": ["bəˈnɑːnəz"], "basket": ["ˈbɑːskɪt"], "basketball hoop": ["ˈbɑːskɪtbɔːl huːp"], "beaker": ["ˈbiːkə"], "beanbags": ["ˈbiːnbæɡz"], "bell": ["bel"], "bench": ["bentʃ"], "bicycle": ["ˈbaɪsɪkl"], "bike rack": ["ˈbaɪk ræk"], "bin": ["bɪn"], "biscuit tin": ["ˈbɪskɪt tɪn"], "biscuits": ["ˈbɪskɪts"], "book bag": ["ˈbʊk bæɡ"], "bookcase": ["ˈbʊkkeɪs"], "books": ["bʊks"], "bowl": ["bəʊl"], "bowls": ["bəʊlz"], "bread knife": ["ˈbred naɪf"], "bread rolls": ["ˈbred rəʊlz"], "brick wall": ["ˌbrɪk ˈwɔːl"], "broccoli": ["ˈbrɒkəli"], "broom": ["bruːm"], "cactus": ["ˈkæktəs"], "card reader": ["ˈkɑːd riːdə"], "cardigan": ["ˈkɑːdɪɡən"], "carrots": ["ˈkærəts"], "ceiling light": ["ˈsiːlɪŋ laɪt"], "chair": ["tʃeə"], "circle": ["ˈsɜːkl"], "climbing frame": ["ˈklaɪmɪŋ freɪm"], "climbing rope": ["ˈklaɪmɪŋ rəʊp"], "clock": ["klɒk"], "coat": ["kəʊt"], "coat peg": ["kəʊt peɡ"], "coat stand": ["ˈkəʊt stænd"], "coffee": ["ˈkɒfi"], "coffee table": ["ˈkɒfi teɪbl"], "coloured pencils": ["ˈkʌləd penslz"], "cone": ["kəʊn"], "cones": ["kəʊnz"], "counter": ["ˈkaʊntə"], "counters": ["ˈkaʊntəz"], "counting cubes": ["ˈkaʊntɪŋ kjuːbz"], "crown": ["kraʊn"], "cupboard": ["ˈkʌbəd"], "curtain": ["ˈkɜːtn"], "cutlery": ["ˈkʌtləri"], "desk": ["desk"], "display board": ["dɪˈspleɪ bɔːd"], "diving mask": ["ˈdaɪvɪŋ mɑːsk"], "draining board": ["ˈdreɪnɪŋ bɔːd"], "drinking fountain": ["ˈdrɪŋkɪŋ faʊntɪn"], "drum": ["drʌm"], "drying rack": ["ˈdraɪɪŋ ræk"], "envelope": ["ˈenvələʊp"], "exercise book": ["ˈeksəsaɪz bʊk"], "exercise books": ["ˈeksəsaɪz bʊks"], "felt tip pens": ["ˌfelt ˈtɪp penz"], "first aid box": ["ˌfɜːst ˈeɪd bɒks"], "fish fingers": ["ˈfɪʃ fɪŋɡəz"], "flask": ["flɑːsk"], "flippers": ["ˈflɪpəz"], "folder": ["ˈfəʊldə"], "footballs": ["ˈfʊtbɔːlz"], "fork": ["fɔːk"], "fridge": ["frɪdʒ"], "fruit salad": ["ˌfruːt ˈsæləd"], "glasses": ["ˈɡlɑːsɪz"], "globe": ["ɡləʊb"], "glue stick": ["ˈɡluː stɪk"], "goal": ["ɡəʊl"], "grated cheese": ["ˌɡreɪtɪd ˈtʃiːz"], "gravy": ["ˈɡreɪvi"], "gym mat": ["ˈdʒɪm mæt"], "hand sanitiser": ["ˈhænd sænɪtaɪzə"], "handrail": ["ˈhændreɪl"], "hedge": ["hedʒ"], "hexagon": ["ˈheksəɡən"], "hole punch": ["ˈhəʊl pʌntʃ"], "hoops": ["huːps"], "hopscotch": ["ˈhɒpskɒtʃ"], "jam jar": ["ˈdʒæm dʒɑː"], "jelly": ["ˈdʒeli"], "jug": ["dʒʌɡ"], "juice": ["dʒuːs"], "kettle": ["ˈketl"], "kitchen roll": ["ˈkɪtʃɪn rəʊl"], "ladder": ["ˈlædə"], "laptop": ["ˈlæptɒp"], "lectern": ["ˈlektən"], "letter tray": ["ˈletə treɪ"], "light switch": ["ˈlaɪt swɪtʃ"], "litter bin": ["ˈlɪtə bɪn"], "loaf": ["ləʊf"], "lunch box": ["ˈlʌntʃ bɒks"], "menu board": ["ˈmenjuː bɔːd"], "milk": ["mɪlk"], "milk jug": ["ˈmɪlk dʒʌɡ"], "monkey bars": ["ˈmʌŋki bɑːz"], "mug": ["mʌɡ"], "mug tree": ["ˈmʌɡ triː"], "music stand": ["ˈmjuːzɪk stænd"], "notebook": ["ˈnəʊtbʊk"], "noticeboard": ["ˈnəʊtɪsbɔːd"], "number line": ["ˈnʌmbə laɪn"], "number rods": ["ˈnʌmbə rɒdz"], "number snake": ["ˈnʌmbə sneɪk"], "oranges": ["ˈɒrɪndʒɪz"], "paint pot": ["ˈpeɪnt pɒt"], "painting": ["ˈpeɪntɪŋ"], "pans": ["pænz"], "paper towel dispenser": ["ˈpeɪpə taʊəl dɪˈspensə"], "pasta": ["ˈpæstə"], "peas": ["piːz"], "pencil": ["ˈpensl"], "pencil case": ["ˈpensl keɪs"], "pencil pot": ["ˈpensl pɒt"], "pencil sharpener": ["ˈpensl ʃɑːpnə"], "pepper": ["ˈpepə"], "photocopier": ["ˈfəʊtəʊkɒpiə"], "piano": ["piˈænəʊ"], "pigeonholes": ["ˈpɪdʒɪnhəʊlz"], "plant": ["plɑːnt"], "planter": ["ˈplɑːntə"], "plates": ["pleɪts"], "post": ["pəʊst"], "poster": ["ˈpəʊstə"], "projector": ["prəˈdʒektə"], "radiator": ["ˈreɪdieɪtə"], "railings": ["ˈreɪlɪŋz"], "raincoat": ["ˈreɪnkəʊt"], "reading book": ["ˈriːdɪŋ bʊk"], "rectangle": ["ˈrektæŋɡl"], "recycling bin": ["riːˈsaɪklɪŋ bɪn"], "recycling box": ["riːˈsaɪklɪŋ bɒks"], "red pen": ["ˌred ˈpen"], "rice pudding": ["ˌraɪs ˈpʊdɪŋ"], "ring binder": ["ˈrɪŋ baɪndə"], "roast potatoes": ["ˌrəʊst pəˈteɪtəʊz"], "rubber": ["ˈrʌbə"], "ruler": ["ˈruːlə"], "sand timer": ["ˈsænd taɪmə"], "sandpit": ["ˈsændpɪt"], "sandwich": ["ˈsænwɪdʒ"], "sceptre": ["ˈseptə"], "scissors": ["ˈsɪzəz"], "scooter": ["ˈskuːtə"], "serving hatch": ["ˈsɜːvɪŋ hætʃ"], "serving spoon": ["ˈsɜːvɪŋ spuːn"], "sink": ["sɪŋk"], "skipping ropes": ["ˈskɪpɪŋ rəʊps"], "slide": ["slaɪd"], "smoke alarm": ["ˈsməʊk əlɑːm"], "snorkel": ["ˈsnɔːkl"], "socket": ["ˈsɒkɪt"], "sphere": ["sfɪə"], "spoon": ["spuːn"], "springboard": ["ˈsprɪŋbɔːd"], "square": ["skweə"], "staff": ["stɑːf"], "stage": ["steɪdʒ"], "stapler": ["ˈsteɪplə"], "star": ["stɑː"], "steps": ["steps"], "stickers": ["ˈstɪkəz"], "stool": ["stuːl"], "strip light": ["ˈstrɪp laɪt"], "sugar bowl": ["ˈʃʊɡə bəʊl"], "sunflowers": ["ˈsʌnflaʊəz"], "swivel chair": ["ˈswɪvl tʃeə"], "table": ["ˈteɪbl"], "tambourine": ["ˌtæmbəˈriːn"], "tap": ["tæp"], "tea towel": ["ˈtiː taʊəl"], "teabags": ["ˈtiːbæɡz"], "tennis balls": ["ˈtenɪs bɔːlz"], "till": ["tɪl"], "tissues": ["ˈtɪʃuːz"], "toaster": ["ˈtəʊstə"], "tomato": ["təˈmɑːtəʊ"], "tray": ["treɪ"], "triangle": ["ˈtraɪæŋɡl"], "trolley": ["ˈtrɒli"], "umbrella": ["ʌmˈbrelə"], "urn": ["ɜːn"], "vaulting horse": ["ˈvɔːltɪŋ hɔːs"], "wall bars": ["ˈwɔːl bɑːz"], "washing-up brush": ["ˌwɒʃɪŋ ˈʌp brʌʃ"], "water bottle": ["ˈwɔːtə bɒtl"], "water cooler": ["ˈwɔːtə kuːlə"], "wellington boots": ["ˈwelɪŋtən buːts"], "whiteboard": ["ˈwaɪtbɔːd"], "window": ["ˈwɪndəʊ"], "yoghurt": ["ˈjɒɡət"]};
 var stage=document.getElementById('stage'), task=document.getElementById('task'), countEl=document.getElementById('count'),
     sub=document.getElementById('sub'), foot=document.getElementById('foot'), photo=document.getElementById('photo'),
     strip=document.getElementById('roomstrip');
